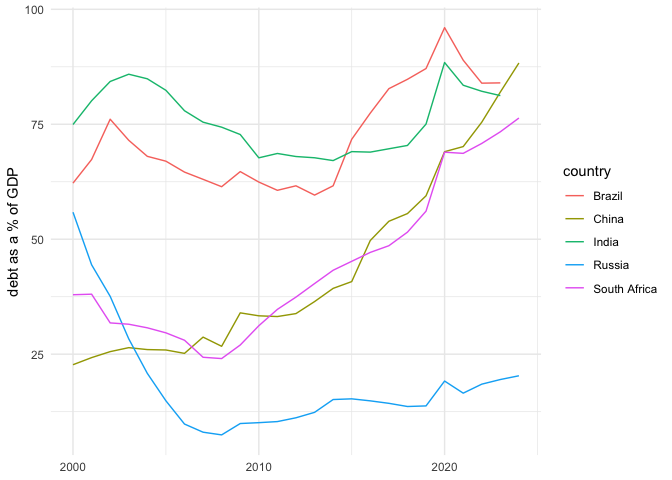
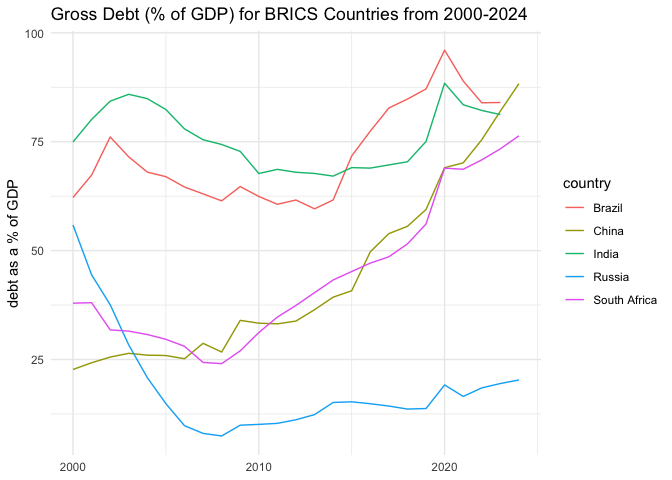
updating .md

diff --git a/README.md b/README.md
@@ -3,7 +3,8 @@
 This tutorial generates two figures related to government debt and its
 relation to real GDP growth. The figures are created for BRICS (Brazil,
 Russia, India, China and South Africa). All data is sourced from the
-FRED API.
+FRED API. All the code to recreate the results is displayed in this
+README, but reproduction will require setting your own API key.
 
 # Set-up
 
@@ -32,7 +33,8 @@ gdp_zaf <- fredr(series_id = "NGDPRXDCZAA", observation_start = start_date)
 
 # Formatting
 
-Combining data
+In order to ready the data for merging and variable creation, I first
+combined the debt and gdp data.
 
 ``` r
 # Combining the debt data for each country
@@ -58,7 +60,7 @@ gdp_panel <- bind_rows(
   rename(gdp = value)
 ```
 
-Calculating GDP growth
+Them, I calculated GDP growth as follows:
 
 ``` r
 gdp_growth_panel <- gdp_panel |> 
@@ -69,7 +71,7 @@ gdp_growth_panel <- gdp_panel |>
   ungroup()
 ```
 
-Merging the data
+Then, I merged all the data into a combined panel.
 
 ``` r
 # data is merged with a left_join
@@ -91,6 +93,7 @@ brics |>
   ) +
   geom_line() +
   labs(
+    title = "Gross Debt (% of GDP) for BRICS Countries from 2000-2024",
     x = NULL,
     y = "debt as a % of GDP"
   ) +
@@ -99,7 +102,7 @@ brics |>
 
 ![](README_files/figure-markdown_github/unnamed-chunk-6-1.png)
 
-## The Relationship Between Debt & GDP Growth
+## The Relationship Between Debt & GDP Growth for BRICS Countries
 
 ``` r
 brics |> 
@@ -109,6 +112,7 @@ brics |>
   geom_point() +
   geom_smooth(method = "lm", se = FALSE) +
   labs(
+    title = "Gross Debt (% of GDP) vs Real GDP Growth",
     x = "debt as a % of GDP",
     y = "Real GDP Growth"
   ) +
